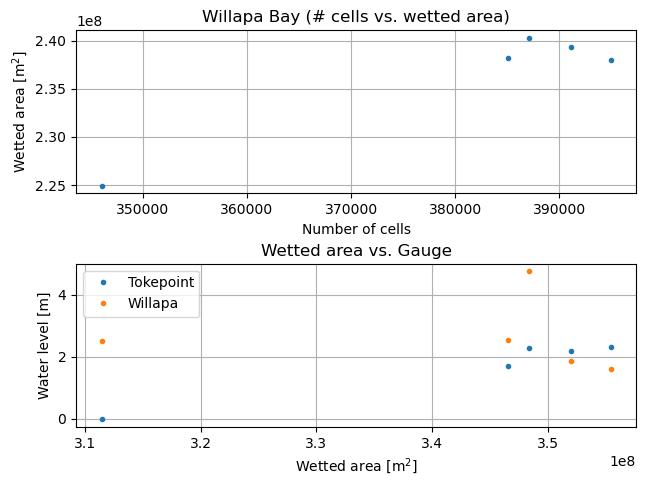
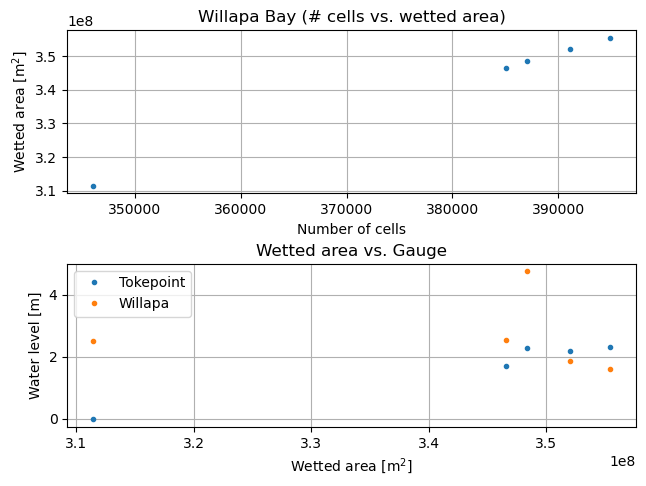
Update

diff --git a/WeeklyLogs/Log120824_121424.md b/WeeklyLogs/Log120824_121424.md
@@ -15,7 +15,7 @@
 	- 01/09/2022 (unusable, GH cut off)
 	- 01/21/2022 (unusable, GH cut off)
 	- 12/18/2023
-- Isolated each system within bounds (Fig. 1, 2)
+- Isolated each system within polygons (Fig. 1, 2)
 
 
 ![WillapaBayIso](../Figures/121224meeting/WillapaBayDSWxS1_domain.png)<br>
@@ -44,7 +44,6 @@ Figure 4: Grays Harbor - (a) Number of cells vs. wetted area, (b) wetted area vs
 
 
 ## Next steps:
-- Clean up/isolate domains better for calculating wetted surface area
 - Continue figuring out why velocity in analytical model is inversed and not correct magnitude for Scheldt Estuary
 
  
